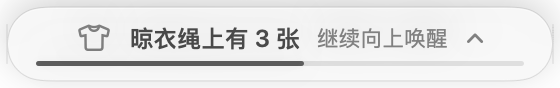
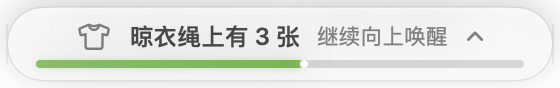
Make threshold progress update live

diff --git a/Sources/Tendedero/HoverHintPanel.swift b/Sources/Tendedero/HoverHintPanel.swift
@@ -1,16 +1,6 @@
 import AppKit
 import SwiftUI
 
-/// The small values the hint view draws. The panel owns one and updates it
-/// from the 30 Hz pointer timer, so the progress bar can animate smoothly
-/// without rebuilding the SwiftUI root view on every tick.
-@MainActor
-final class HoverHintModel: ObservableObject {
-    @Published var count = 0
-    /// 0 at the bottom of the hot zone, 1 at the top edge.
-    @Published var progress: Double = 0
-}
-
 /// A small glass pill under the menu bar. It appears as soon as the pointer
 /// rests at the top center, then follows the pointer upward toward the menu
 /// bar. Its bottom edge carries a progress bar that fills as the pointer
@@ -19,14 +9,13 @@ final class HoverHintModel: ObservableObject {
 /// It never takes a click and never becomes key: it is a sign, not a control.
 @MainActor
 final class HoverHintPanel: NSPanel {
-    private let model: HoverHintModel
     private let hosting: NSHostingView<HoverHintView>
+    private var lastCount = -1
+    private var lastProgress = -1.0
     private var isShown = false
 
     init() {
-        let model = HoverHintModel()
-        self.model = model
-        self.hosting = NSHostingView(rootView: HoverHintView(model: model))
+        hosting = NSHostingView(rootView: HoverHintView(count: 0, progress: 0))
         hosting.sizingOptions = []
         super.init(contentRect: NSRect(x: 0, y: 0, width: 280, height: 44),
                    styleMask: [.borderless, .nonactivatingPanel],
@@ -58,9 +47,16 @@ final class HoverHintPanel: NSPanel {
     /// bottom of the hot zone to 1 at the top edge, so the pill and its bar
     /// rise with the pointer. Cheap to call from the 30 Hz pointer timer.
     func show(count: Int, on screen: NSScreen, progress: Double) {
-        if model.count != count { model.count = count }
         let clamped = min(1, max(0, progress))
-        if abs(model.progress - clamped) > 0.001 { model.progress = clamped }
+        // Replace the content rather than relying on an observed model: the
+        // hint lives in a non-activating panel, and this is what keeps the
+        // progress fill moving with every 30 Hz pointer update.
+        if count != lastCount || abs(clamped - lastProgress) > 0.0005 {
+            lastCount = count
+            lastProgress = clamped
+            hosting.rootView = HoverHintView(count: count, progress: clamped)
+            hosting.needsDisplay = true
+        }
 
         let size = NSSize(width: 280, height: 44)
         let bar = AppDelegate.menuBarBand(of: screen)
@@ -91,7 +87,8 @@ final class HoverHintPanel: NSPanel {
 }
 
 private struct HoverHintView: View {
-    @ObservedObject var model: HoverHintModel
+    let count: Int
+    let progress: Double
 
     var body: some View {
         VStack(spacing: 4) {
@@ -100,12 +97,12 @@ private struct HoverHintView: View {
                     .font(.system(size: 12, weight: .semibold))
                     .foregroundStyle(.secondary)
 
-                if model.count == 0 {
+                if count == 0 {
                     Text(L("Take a screenshot and it will hang here"))
                         .font(.system(size: 11, weight: .medium, design: .rounded))
                         .foregroundStyle(.secondary)
                 } else {
-                    Text(String(format: L("%d on the line"), model.count))
+                    Text(String(format: L("%d on the line"), count))
                         .font(.system(size: 12, weight: .semibold, design: .rounded))
                     Text(L("Keep moving up to wake"))
                         .font(.system(size: 11, weight: .regular, design: .rounded))
@@ -113,12 +110,11 @@ private struct HoverHintView: View {
                     Image(systemName: "chevron.up")
                         .font(.system(size: 9, weight: .bold))
                         .foregroundStyle(.secondary)
-                        .scaleEffect(model.progress > 0.85 ? 1.18 : 1)
-                        .animation(.easeOut(duration: 0.15), value: model.progress > 0.85)
+                        .scaleEffect(progress > 0.85 ? 1.18 : 1)
                 }
             }
 
-            if model.count > 0 {
+            if count > 0 {
                 progressBar
             }
         }
@@ -140,18 +136,31 @@ private struct HoverHintView: View {
     /// pointer's climb and brightens just before the wake threshold.
     private var progressBar: some View {
         GeometryReader { geometry in
+            let filled = max(0, geometry.size.width * CGFloat(progress))
             ZStack(alignment: .leading) {
                 Capsule()
-                    .fill(Color.primary.opacity(0.12))
+                    .fill(Color.primary.opacity(0.16))
                 Capsule()
-                    .fill(Color.primary.opacity(model.progress > 0.85 ? 0.9 : 0.68))
-                    .frame(width: max(0, geometry.size.width * CGFloat(model.progress)))
-                    .opacity(model.progress > 0.01 ? 1 : 0)
-                    .shadow(color: Color.primary.opacity(model.progress > 0.85 ? 0.35 : 0.12),
+                    .fill(
+                        LinearGradient(
+                            colors: progress > 0.85
+                                ? [Color.orange.opacity(0.85), Color.orange]
+                                : [Color.accentColor.opacity(0.75), Color.accentColor],
+                            startPoint: .leading, endPoint: .trailing)
+                    )
+                    .frame(width: filled)
+                    .opacity(progress > 0.01 ? 1 : 0)
+                    .shadow(color: (progress > 0.85 ? Color.orange : Color.accentColor).opacity(0.35),
                             radius: 2)
+                if progress > 0.01 {
+                    Circle()
+                        .fill(Color.white.opacity(0.95))
+                        .frame(width: 4, height: 4)
+                        .offset(x: max(0, filled - 2))
+                        .shadow(color: .white.opacity(0.55), radius: 2)
+                }
             }
-            .animation(.easeOut(duration: 0.08), value: model.progress)
         }
-        .frame(height: 3)
+        .frame(height: 4)
     }
 }

diff --git a/README-DEV.md b/README-DEV.md
@@ -13,7 +13,7 @@
   - 有图片时：`晾衣绳上有 3 张 · 继续向上唤醒` + 向上箭头
   - 空绳时：`截图后会挂在这里`
 - 提示会**跟随鼠标向上移动**，而不是按时间自动爬升；鼠标停在中间，提示就停在中间，晾衣架始终不出现。
-- 提示底部有一条**阈值进度条**：它按 96 pt 的上移行程填充，鼠标越往上填充越多；接近阈值时进度条变亮、向上箭头轻微放大，填满并到达最上沿才唤醒。
+- 提示底部有一条**阈值进度条**：它按 96 pt 的上移行程实时填充，带一个白色指示点；鼠标越往上填充越多，接近阈值时进度条转为橙色、向上箭头轻微放大，填满并到达最上沿才唤醒。
 - 只有提示出现后鼠标**继续向上移动**（哪怕一小段），并且到达**屏幕最上沿**，才唤醒晾衣架；随后提示消失、绳子落下。
 - 没有“等几秒自动展开”的逻辑。鼠标不继续上移，就不会展开。
 - 菜单栏其他位置（Apple 菜单、状态图标、时钟等）不会触发。
@@ -99,7 +99,7 @@ scripts/build-app.sh
 - `swift build -c release` 通过，无编译警告；
 - `swift scripts/check-strings.swift` 通过（11 种语言，66 条字符串）；
 - 通用二进制（arm64 + x86_64）构建、ad-hoc 签名通过；
-- 提示底部进度条随指针上移平滑填充；接近阈值时箭头放大、进度条变亮。
+- 提示底部进度条随指针上移实时填充；白色指示点跟手移动，接近阈值时进度条转橙、箭头放大。
 - 在 2048 × 1152 屏幕上，指针移到顶部正中：
   - 进入 96 pt 热区：只出现提示窗 `(884, 36)`、约 `280 × 44`、alpha = 1，晾衣架不出现；
   - 停留在热区中段（例如指针 y=60）：提示停在 `(884, 30)` 左右，进度条约 38%，晾衣架始终不出现；
